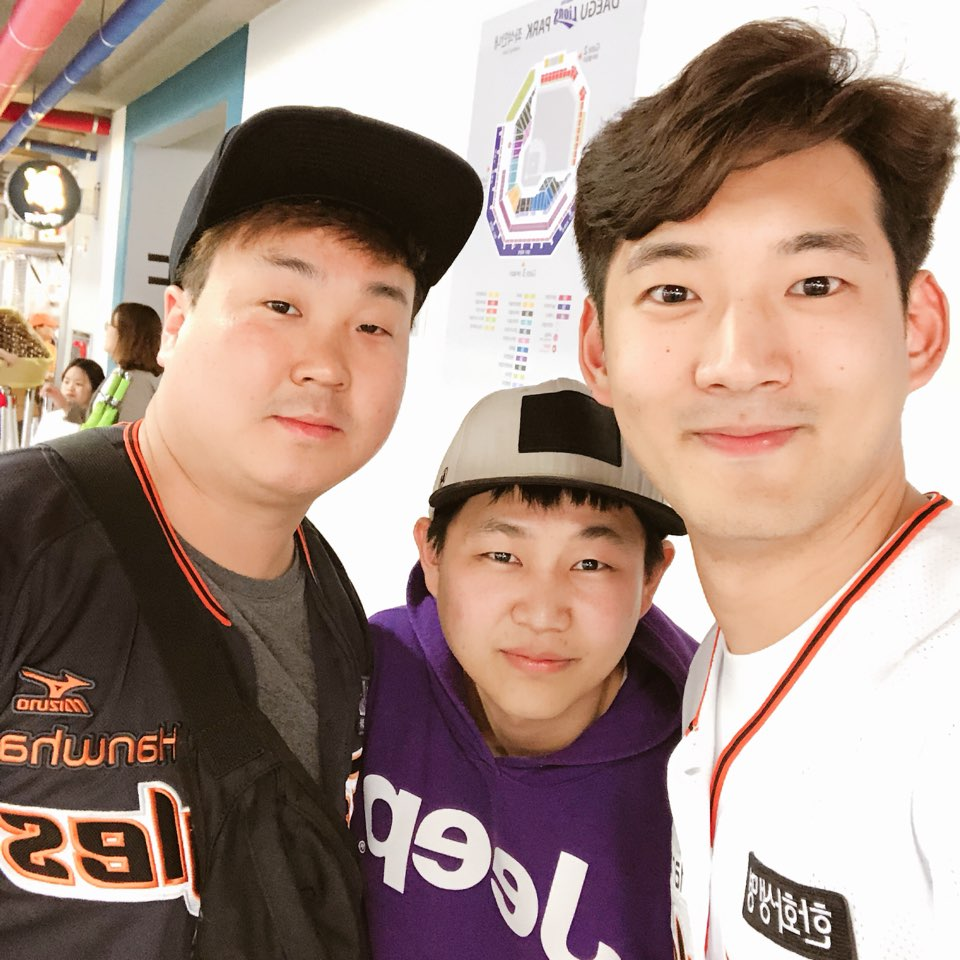
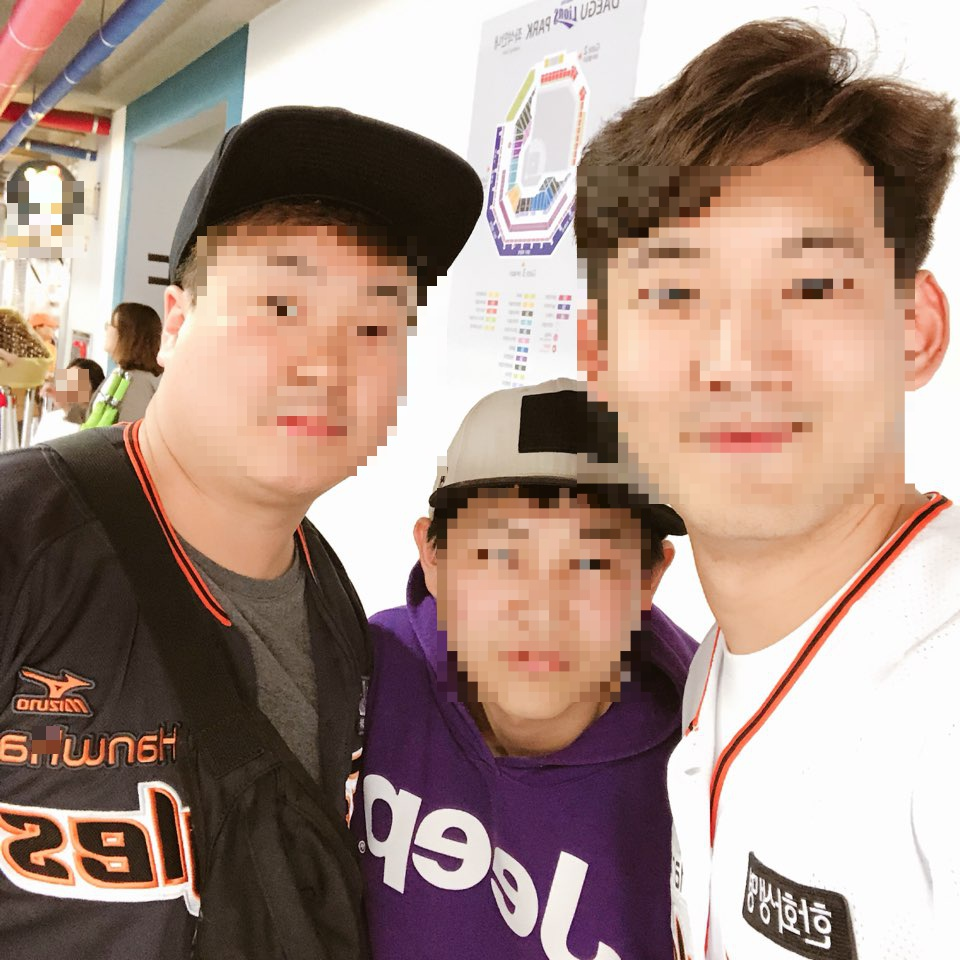
AI OpenCV 얼굴인식 모자이크 데이터

diff --git a/AI/Pillow/face_mosaic.py b/AI/Pillow/face_mosaic.py
@@ -1,0 +1,42 @@
+import cv2, sys, re
+
+# 입력 파일 지정하기
+# if len(sys.argv) <= 1:
+#    print("no input file")
+#    quit()
+image_file = "./pakutas/photo2.jpg"
+
+# 출력 파일 이름
+output_file = re.sub(r'\,jpg|jpeg|PNG$','-mosaic.jpg',image_file)
+mosaic_rate = 10
+
+# 캐스캐이드 파일 경로 지정하기
+cascade_file = "./cascades/data/haarcascade_frontalface_alt.xml"
+
+# 이미지 읽어 들이기
+image = cv2.imread(image_file)
+image_gs = cv2.cvtColor(image,cv2.COLOR_BGR2GRAY) # 그레이스케일 변환
+
+# 얼굴 인식 실행하기
+cascade = cv2.CascadeClassifier(cascade_file)
+face_list = cascade.detectMultiScale(image_gs,scaleFactor=1.1,minNeighbors=1,minSize=(10,10))
+if len(face_list) == 0:
+    print("no face")
+    quit()
+
+# 확인한 부분에 모자이크 걸기
+print(face_list)
+color = (0,0,255)
+
+for (x,y,w,h) in face_list:
+    # 얼굴 부분 자르기
+    face_img = image[y:y+h, x:x+w]
+    # 자른 이미지를 지정한 배율로 확대/축소하기
+    face_img = cv2.resize(face_img, (w//mosaic_rate, h//mosaic_rate))
+    # 확대/축소한 그림을 원래 크기로 돌리기
+    face_img = cv2.resize(face_img, (w,h),interpolation = cv2.INTER_AREA)
+    # 원래 이미지에 붙이기
+    image[y:y+h, x:x+w] = face_img
+
+# 렌더링 결과를 파일에 출력
+cv2.imwrite(output_file, image)
